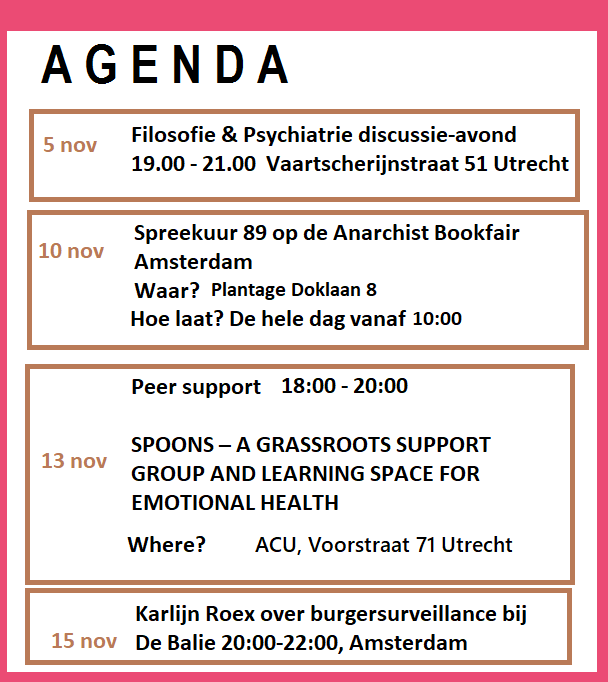
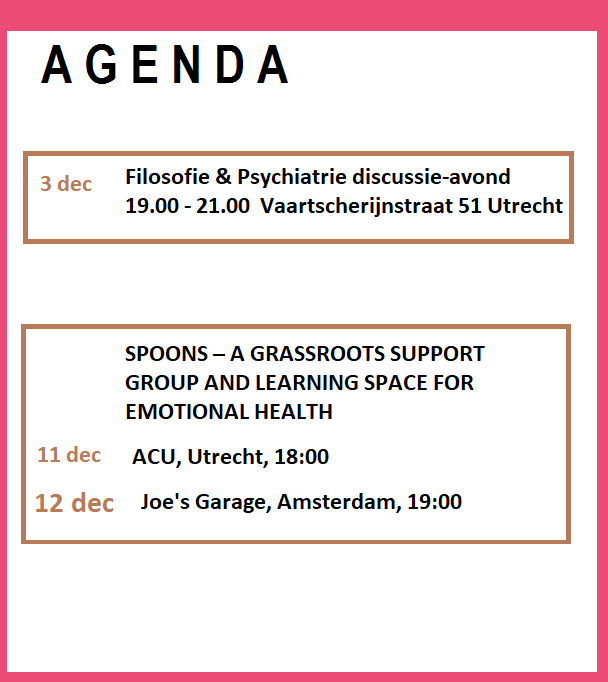
20nov18

Changed region(s): [[0.0312, 0.154, 0.9688, 0.9853]]

diff --git a/filosofie2_en.html b/filosofie2_en.html
@@ -63,7 +63,7 @@
 
 <h2>Philosophy evenings</h2>
 <p>
-In 2018 we have started the discussion series 'Philosophy and Psychiatry'. The sessions are mostly at the last wednesday of the month. For May, we unfortunately had to forgo this because of a lot of events and duties of us all.
+In 2018 we have started the discussion series 'Philosophy and Psychiatry'. The next sessions are 3 December and 28 January, at 7pm at Vaartscherijnstraat 51 in Utrecht (Enik Recovery College).
 <br>The evenings can be attended independently from attendance of each other.
 Stay up to date on this? The easiest way is by subscribing on the newsletter through an email to info@spreekuur89.nl. Preferrably, announce your presence in advance so we can see how many people there will be.<br><br>
 <b>For whom?</b><br>

diff --git a/filosofie2.html b/filosofie2.html
@@ -65,7 +65,7 @@
 
 <h2>Filosofieworkshops</h2>
 <p>
-In 2018 startten we met discussie-avonden 'Filosofie en Psychiatrie'. De volgende sessie zal <b>5 NOVEMBER</b> zijn om 19:00 bij Enik Recovery College, Vaartscherijnstraat 51 in Utrecht.
+In 2018 startten we met discussie-avonden 'Filosofie en Psychiatrie'. De volgende sessies zullen <b>3 DECEMBER en 28 JANUARI</b> zijn om 19:00 bij Enik Recovery College, Vaartscherijnstraat 51 in Utrecht.
 <br> Voor het volgen van deze sessie is het niet vereist om de voorgaande sessies gevolgd te hebben.
 Op de hoogte blijven? Schrijf je in op de nieuwsbrief via een mail naar info@spreekuur89.nl Je kunt je ook bij dit mailadres aanmelden voor de discussie-avond, zodat we weten hoeveel mensen er komen.<br><br>
 <b>Voor wie?</b><br>
